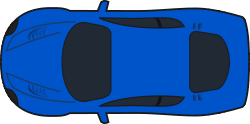
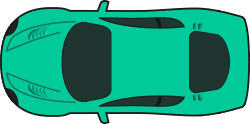
Add more cars and color change.

diff --git a/src/Generator/CarSpawnGenerator.java b/src/Generator/CarSpawnGenerator.java
@@ -4,8 +4,8 @@ import Car.Car;
 import Car.AdHocCar;
 import Car.ParkingPassCar;
 import Car.ReservationCar;
-import Generator.CarBrandGenerator;
-import Generator.LicensePlateGenerator;
+import Car.ElectricCar;
+import Car.DisabledCar;
 
 import java.util.ArrayList;
 import java.util.Calendar;
@@ -28,12 +28,16 @@ public class CarSpawnGenerator {
 
     public Car randomCar(int minutesLeft) {
         int decide = rd.nextInt(99) + 1;
-        if (decide <= 33) {
+        if (decide <= 70) {
             return new AdHocCar(lpg.generatePlate(), cbg.getRandomBrand(), randomStayMinutes(minutesLeft));
-        } else if (decide > 33 && decide < 66) {
+        } else if (decide <= 85) {
             return new ParkingPassCar(lpg.generatePlate(), cbg.getRandomBrand(), randomStayMinutes(minutesLeft));
-        } else {
+        } else if (decide <= 93) {
             return new ReservationCar(lpg.generatePlate(), cbg.getRandomBrand(), randomStayMinutes(minutesLeft));
+        } else if (decide <= 98) {
+            return new ElectricCar(lpg.generatePlate(), cbg.getRandomBrand(), randomStayMinutes(minutesLeft));
+        } else {
+            return new DisabledCar(lpg.generatePlate(), cbg.getRandomBrand(), randomStayMinutes(minutesLeft));
         }
 
     }

diff --git a/src/UI/InterfaceContext.java b/src/UI/InterfaceContext.java
@@ -19,6 +19,8 @@ public class InterfaceContext {
     private BufferedImage adHocCarImage;
     private BufferedImage parkingPassCarImage;
     private BufferedImage reservationCarImage;
+    private BufferedImage electricCarImage;
+    private BufferedImage disabledCarImage;
 
     private InterfaceContext() {}
 
@@ -34,6 +36,8 @@ public class InterfaceContext {
             adHocCarImage = ImageIO.read(new File("res/adHocCarImage.png"));
             parkingPassCarImage = ImageIO.read(new File("res/parkingPassCarImage.png"));
             reservationCarImage = ImageIO.read(new File("res/reservationCarImage.png"));
+            electricCarImage = ImageIO.read(new File("res/electricCarImage.png"));
+            disabledCarImage = ImageIO.read(new File("res/disabledCarImage.png"));
         } catch (IOException e) {
             e.printStackTrace();
         }
@@ -82,5 +86,13 @@ public class InterfaceContext {
 
     public BufferedImage getReservationCarImage() {
         return reservationCarImage;
+    }
+
+    public BufferedImage getElectricCarImage() {
+        return electricCarImage;
+    }
+
+    public BufferedImage getDisabledCarImage() {
+        return disabledCarImage;
     }
 }

diff --git a/src/Car/CarView.java b/src/Car/CarView.java
@@ -30,6 +30,10 @@ public class CarView extends JPanel {
             carImage = interfaceContext.getParkingPassCarImage();
         } else if (car instanceof ReservationCar) {
             carImage = interfaceContext.getReservationCarImage();
+        } else if (car instanceof DisabledCar) {
+            carImage = interfaceContext.getDisabledCarImage();
+        } else if (car instanceof ElectricCar) {
+            carImage = interfaceContext.getElectricCarImage();
         }
     }
 

diff --git a/src/Car/ElectricCar.java b/src/Car/ElectricCar.java
@@ -1,0 +1,15 @@
+package Car;
+
+import java.awt.*;
+
+public class ElectricCar extends Car {
+    private static final Color COLOR = Color.green;
+
+    public ElectricCar(String licensePlate, String brand, int minutesLeft) {
+        super(licensePlate, brand, minutesLeft, true);
+    }
+
+    public Color getColor() {
+        return COLOR;
+    }
+}

diff --git a/src/Car/DisabledCar.java b/src/Car/DisabledCar.java
@@ -1,0 +1,15 @@
+package Car;
+
+import java.awt.*;
+
+public class DisabledCar extends Car {
+    private static final Color COLOR = Color.blue;
+
+    public DisabledCar(String licensePlate, String brand, int minutesLeft) {
+        super(licensePlate, brand, minutesLeft, true);
+    }
+
+    public Color getColor() {
+        return COLOR;
+    }
+}
